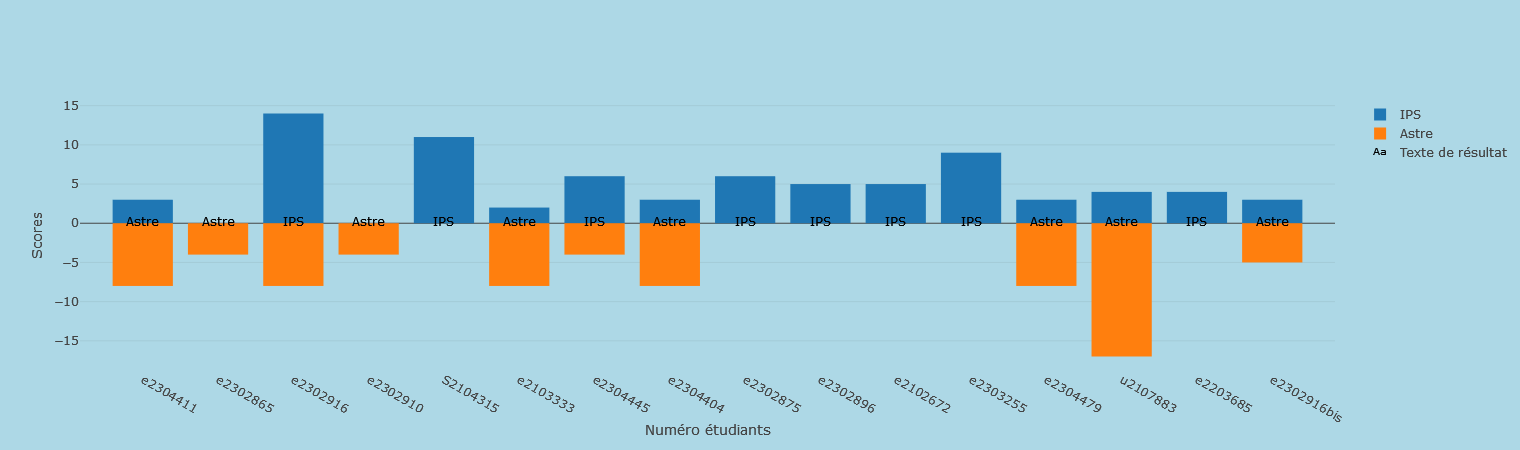
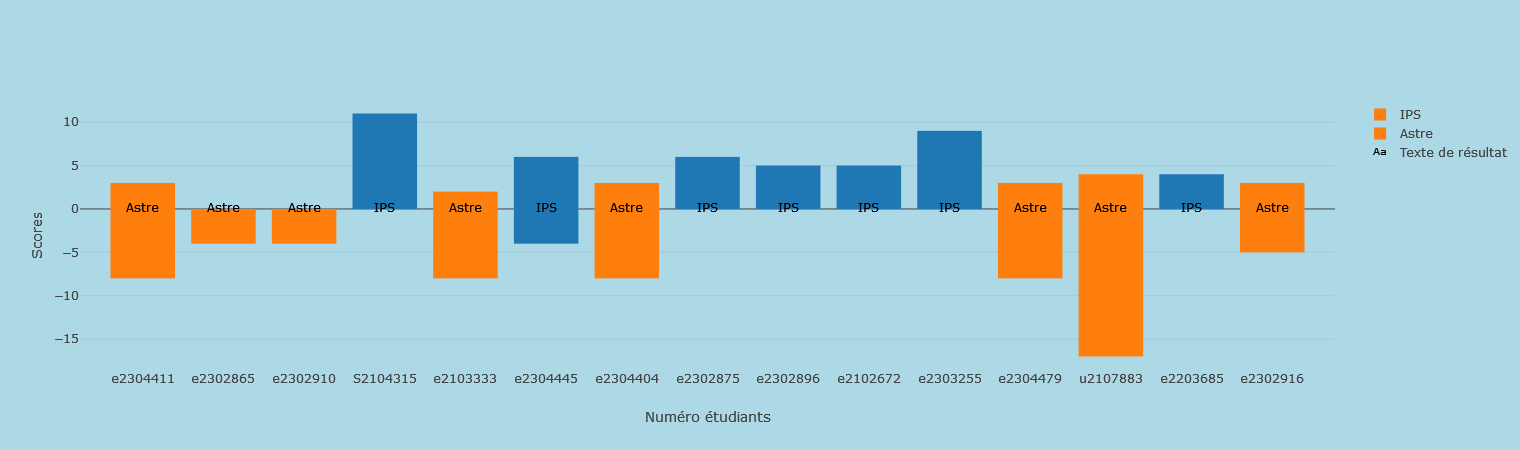
fin du projet

diff --git a/dashboard.py b/dashboard.py
@@ -29,7 +29,7 @@ num_astres = sum(1 for result in results if result == 'Astre')
 
 app.layout = html.Div(children=[
     html.H1('Astre ou IPS', style={'textAlign': 'center'}),
-    html.P("Ce dashboard permet de visualiser les options que les étudiants vont choisir selon des hypothèses, vous pouvez modifier les poids de chaque hypothèse grâce aux slider dans la setion ci-dessous"),
+    html.P("Ce dashboard permet de visualiser les options que les étudiants vont choisir selon des hypothèses, vous pouvez modifier les poids de chaque hypothèse grâce aux sliders dans la section ci-dessous"),
     html.Div(className='hypothesis-container', children=[
 html.Div(className='hypothesis', children=[
     html.Label("hypothèse "+str(i+1)+" "+hypothesis.option+":"+hypothesis.details+" "),

diff --git a/README.md b/README.md
@@ -1,7 +1,7 @@
 # ASTREOuIPS
 # Principe
-Ce projet ce base sur l'analyse d'un corpus de donnée receuillis auprès d'élèves de 3ème année informatique de l'ENSIM (Ecole Nationale Supérieur des Ingénieurs du Mans), afin de déterminer si les élèves sont plus attiré par la filière ASTRE (Architecture des Systèmes Temps Réel Embarqués) ou IPS (Interaction Personne Système).
-Pour avoir notre corpus nous avons crée un questionaire de 17 questions:
+Ce projet se base sur l'analyse d'un corpus de données recueillies auprès d'élèves de 3ème année informatique de l'ENSIM (École Nationale Supérieur des Ingénieurs du Mans), afin de déterminer si les élèves sont plus attirés par la filière ASTRE (Architecture des Systèmes Temps Réel Embarqués) ou IPS (Interaction Personne Système).
+Pour avoir notre corpus nous avons créé un questionnaire de 17 questions:
 1. Quel est ton numéro étudiant ? (eXXXXXX, iXXXXXX ...)
    - Reponse courte
 2. Quel est ton langage de programmation préféré ?(choix unique)
@@ -104,16 +104,15 @@ Pour avoir notre corpus nous avons crée un questionaire de 17 questions:
     - Papier, crayon, trousse, la base
     - Mon pc portable only 
 # Installation
-Pour installer le programme il suffit de cloner le dépôt git et d'installer les dépendances avec pip:
+Pour installer le programme il suffit de cloner le dépôt git et d'installer les dépendances avec pip, ensuite vous pouvez lancer le programme avec python.
 ```bash
 git clone https://github.com/dinoclier72/ASTREOuIPS.git
 cd ASTREOuIPS
 pip install -r requirements.txt
 python dashboard.py
 ```
-ensuite vous serrez libre de traiter le fichier data.csv en lançant le script engine.py puis le script graph.py pour avoir un affichage graphique des résultats.
 # Fonctionnement
-Pour mon fonctionnement j'ai décidé d'utiliser un système de classe pour stocker à la fois les réultats sous forme de profils, qui seront ensuite extrait sous forme de json avec le script engine.py pour être ensuite traité par le script dashboard.py qui va générer un graphique des résultats.
+Pour mon fonctionnement j'ai décidé d'utiliser un système de classes pour stocker à la fois les résultats sous forme de profils, qui seront ensuite extraits sous forme de json avec le script engine.py pour être ensuite traité par le script dashboard py qui va générer un graphique des résultats.
 ```mermaid
 classDiagram
       class Profil{
@@ -130,7 +129,7 @@ classDiagram
             +String option
       }
 ```
-l'avantage d'un tel système est que pour formuler une hypothèse, il suffit de l'ajouter à la liste des hypothèse avec un simple ajout dans le code comme ceci:
+l'avantage d'un tel système est que pour formuler une hypothèse, il suffit de l'ajouter à la liste des hypothèses avec un simple ajout dans le code comme ceci:
 ```python
 #hypothèse 1: C + arduino = AStre (3points)
 Hypothese({1:"C",4:"Arduino"},3,"Astre")
@@ -164,9 +163,9 @@ J'ai utilisé les données que j'avais à ma disposition ainsi que les hypothès
 Ce qui donne un résultat comme celui-ci:
 
 ![graphique des résultats](results/1/chart.png)
-Les premières hypothèses ont comme problème que certains étudians n'ont pas beaucoup de point pour une matière ou l'autre ainsi que d'autre ne correspondent à aucune de mes hypothèses formulée. Ce qui demande un réiquilibrae des poids de chaque hypothèse ainsi qu'un ajout de nouvelle hypothèses plus étendue.
+Les premières hypothèses ont comme problème que certains étudiants n'ont pas beaucoup de points pour une matière ou l'autre ainsi que d'autres ne correspondent à aucune de mes hypothèses formulée. Ce qui demande un rééquilibre des poids de chaque hypothèse ainsi qu'un ajout de nouvelle hypothèse plus étendue.
 ## Résultats finaux
-Suite à ces observation j'ai mis en place de nouvelles hypothèses et ai résolu un bug qui empêchait certaines hypothèse d'être reconnues. Les hypothèses sont les suivantes:
+Suite à ces observations j'ai mis en place de nouvelles hypothèses et est résolu un bug qui empêchait certaines hypothèses d'être reconnu. Les hypothèses sont les suivantes:
 1. C + arduino = AStre
 2. construction dans minecraft + uX/UI = IPS
 3. étranger = IPS
@@ -177,6 +176,9 @@ Suite à ces observation j'ai mis en place de nouvelles hypothèses et ai résol
 8. démonté quelque chose + domotique/robotique = astre 
 9. aime la robtique et le fonctionnel = ASTRE
 10. connait le frontend/backend et aime l'estétique = IPS
+
 ![graphique intermédiaire](results/2/plot.png)
 Avec ces nouvelles hypothèses, nous avons un résultat qui touche plus de personnes, il restera juste à trouver les poids idéaux pour chaque hypothèse.
+
 ![graphique final](results/3/plot.png)
+Avec un équilibrage des poids, nous pouvons voir que les résultats sont plus équilibrés et que les personnes qui ne correspondaient à aucune hypothèse sont maintenant réparties entre les deux filières.
